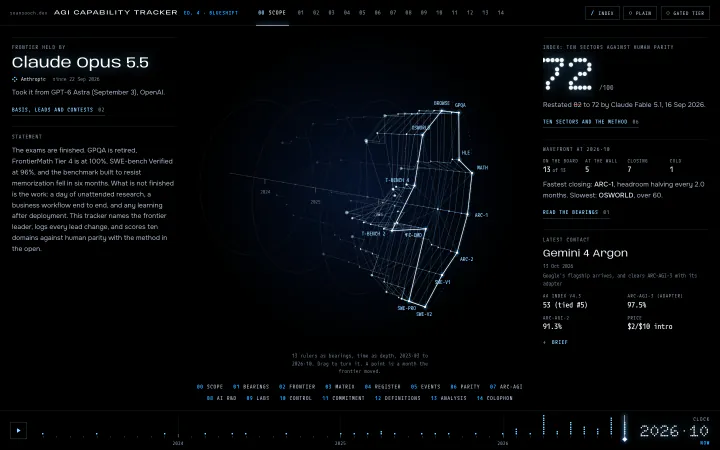
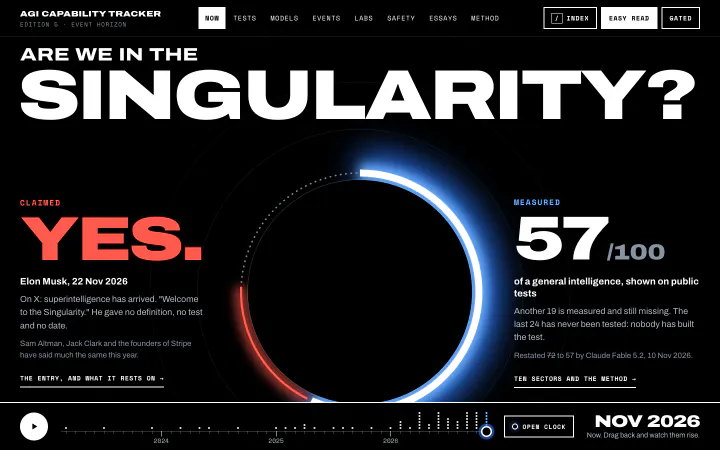
AGI tracker: Edition 5 "Event Horizon" on the record, Edition 4 kept
The tracker's fifth edition is live and its fourth is frozen at
agi-tracker-v4.pages.dev. Record entry, stats and both tellings updated;
plates retaken (agi, agi-e4, vol4, card); counts recounted (179,404 lines
in 504 files).

Two checks that pinned one day's record now state the claim instead: the
sitemap dates the home page no earlier than the newest edition it shows,
and the walk counts the tracker's kept editions off the page.

diff --git a/record/index.html b/record/index.html
@@ -10,7 +10,7 @@
 <meta property="og:description" content="How this site is made and kept, apart from the work: every edition it has had, what is counted from source, what your browser measures as you read, and an index of everything on it.">
 <meta property="og:type" content="website">
 <meta property="og:url" content="https://seansooch.dev/record/">
-<meta property="og:image" content="https://seansooch.dev/plates/card.jpg?v=863c1e0227">
+<meta property="og:image" content="https://seansooch.dev/plates/card.jpg?v=59f5b81c43">
 <meta property="og:image:width" content="1200">
 <meta property="og:image:height" content="630">
 <meta name="twitter:card" content="summary_large_image">
@@ -95,7 +95,7 @@
         <p class="lbl">Retired with honors, November 2026.</p>
         <a class="go" href="https://seansooch-vol3.pages.dev/" target="_blank" rel="noopener">Open the archive<span aria-hidden="true"> ↗</span></a>
       </article><article class="vol" id="vol4">
-        <div class="plate"><img src="/plates/vol4-720.webp?v=dc452cceb1" srcset="/plates/vol4-720.webp?v=dc452cceb1 720w, /plates/vol4.webp?v=5e7e0ce66b 1440w" sizes="(max-width: 860px) 92vw, 23vw" width="1440" height="900" alt="Vol. 04, Side by Side" decoding="async" loading="lazy"></div>
+        <div class="plate"><img src="/plates/vol4-720.webp?v=be61c98005" srcset="/plates/vol4-720.webp?v=be61c98005 720w, /plates/vol4.webp?v=09b8db363f 1440w" sizes="(max-width: 860px) 92vw, 23vw" width="1440" height="900" alt="Vol. 04, Side by Side" decoding="async" loading="lazy"></div>
         <p class="cap-top lbl"><span>Vol. 04</span><span>November 2026</span></p>
         <h3>Side by Side</h3>
         <p class="say-s">A neutral room: each work beside its own earlier edition, no color but the work&#x27;s. Designed by Claude Fable 5.2.</p>
@@ -138,17 +138,17 @@
     <h3 class="sub-h">The apps keep editions too</h3>
     <div class="table-wrap sheet"><table class="eds">
       <thead><tr><th scope="col">App</th><th scope="col">Current edition</th><th scope="col">Designed by</th><th scope="col">Issued</th><th scope="col">Kept</th></tr></thead>
-      <tbody><tr><th scope="row"><a href="/#step2">Step 2 CK Qbank</a></th><td>Edition 2, Workroom</td><td>Claude Opus 5.5</td><td>22 Sep 2026</td><td><a href="https://step2-ck-v1.pages.dev" target="_blank" rel="noopener">Edition 1</a></td></tr><tr><th scope="row"><a href="/#handoff">Patient Handoff Tracker</a></th><td>Edition 2, Chart Tab</td><td>Claude Opus 5.5</td><td>22 Sep 2026</td><td><a href="https://handoff-tracker-v1.pages.dev" target="_blank" rel="noopener">Edition 1</a></td></tr><tr><th scope="row"><a href="/#ekg">Read This</a></th><td>Edition 2, Reading Room</td><td>Claude Opus 5.5</td><td>22 Sep 2026</td><td><a href="https://ekg-v1.pages.dev" target="_blank" rel="noopener">Edition 1</a></td></tr><tr><th scope="row"><a href="/#microtd">MICRO TD</a></th><td>Edition 2, Oil Immersion</td><td>Claude Opus 5.5</td><td>22 Sep 2026</td><td><a href="https://micro-td-v1.pages.dev" target="_blank" rel="noopener">Edition 1</a></td></tr><tr><th scope="row"><a href="/#anatomy">Anatomy Bench</a></th><td>Edition 1, Run 01</td><td>Claude Fable 5.2</td><td>10 Nov 2026</td><td><span class="quiet">none yet</span></td></tr><tr><th scope="row"><a href="/#toolkit">Hospital and Field Toolkit</a></th><td>Edition 2, Pocket Cards</td><td>Claude Opus 5.5</td><td>22 Sep 2026</td><td><a href="https://toolkit-v1.pages.dev/toolkit/" target="_blank" rel="noopener">Edition 1</a></td></tr><tr><th scope="row"><a href="/#warrior">Warrior Ready</a></th><td>Edition 2, Scorecard</td><td>Claude Opus 5.5</td><td>22 Sep 2026</td><td><a href="https://warrior-ready-v1.pages.dev" target="_blank" rel="noopener">Edition 1</a></td></tr><tr><th scope="row"><a href="/#agi">AGI Capability Tracker</a></th><td>Edition 4, Blueshift</td><td>Claude Opus 5.5</td><td>6 Oct 2026</td><td><a href="https://agi-tracker-v3.pages.dev" target="_blank" rel="noopener">Edition 3, The Ledger</a>, <a href="https://agi-tracker-v2.pages.dev" target="_blank" rel="noopener">Edition 2</a></td></tr><tr><th scope="row"><a href="/#sims">Simulators</a></th><td>Edition 2, Drawing Set</td><td>Claude Opus 5.5</td><td>22 Sep 2026</td><td><a href="https://simulators-v1.pages.dev" target="_blank" rel="noopener">Edition 1</a></td></tr><tr><th scope="row"><a href="/#situation">Monitoring the Situation</a></th><td>Edition 3, The Broadsheet</td><td>Claude Opus 5.5</td><td>14 Nov 2026</td><td><span class="quiet">none yet</span></td></tr><tr><th scope="row"><a href="/#forge">Forge</a></th><td>Edition 2, Casting Floor</td><td>Claude Opus 5.5</td><td>22 Sep 2026</td><td><a href="https://forge-v1.pages.dev" target="_blank" rel="noopener">Edition 1</a></td></tr><tr><th scope="row"><a href="/#space">Space Explorer</a></th><td>Edition 2, Flight Plan</td><td>Claude Opus 5.5</td><td>22 Sep 2026</td><td><a href="https://cic-dashboard-v1.pages.dev" target="_blank" rel="noopener">Edition 1</a></td></tr><tr><th scope="row"><a href="/#multipliers">Force Multipliers</a></th><td>Edition 1, Briefing Cards</td><td>Claude Opus 5.5</td><td>10 Oct 2026</td><td><span class="quiet">none yet</span></td></tr><tr><th scope="row"><a href="/#edge">Edge Draft Terminal</a></th><td>Edition 2, Card Back</td><td>Claude Fable 5.2</td><td>22 Nov 2026</td><td><a href="https://edge-v1-a16.pages.dev" target="_blank" rel="noopener">Edition 1</a></td></tr><tr><th scope="row"><a href="/#ncaat">NCAAT Bracket</a></th><td>Edition 2, Studio</td><td>Claude Opus 5.5</td><td>23 Sep 2026</td><td><a href="https://ncaat-bracket-2026-v1.pages.dev" target="_blank" rel="noopener">Edition 1</a></td></tr><tr><th scope="row"><a href="/#masters">Masters 2026 Hub</a></th><td>Edition 2, Big Board</td><td>Claude Opus 5.5</td><td>22 Sep 2026</td><td><a href="https://masters-2026-v1.pages.dev" target="_blank" rel="noopener">Edition 1</a></td></tr><tr><th scope="row"><a href="/#detroit">Detroit Sports Hub</a></th><td>Edition 2, Woodward</td><td>Claude Opus 5.5</td><td>22 Sep 2026</td><td><a href="https://detroit-sports-v1.pages.dev" target="_blank" rel="noopener">Edition 1</a></td></tr><tr><th scope="row"><a href="/#greatbooks">Great Books</a></th><td>Edition 2, Tri-band</td><td>Claude Opus 5.5</td><td>22 Sep 2026</td><td><a href="https://great-books-v1.pages.dev" target="_blank" rel="noopener">Edition 1</a></td></tr><tr><th scope="row"><a href="/#reading">Reading Room</a></th><td>Edition 2, The Stacks</td><td>Claude Opus 5.5</td><td>22 Sep 2026</td><td><a href="https://reading-room-v1.pages.dev" target="_blank" rel="noopener">Edition 1</a></td></tr><tr><th scope="row"><a href="/#philosophy">Philosophy Room</a></th><td>Edition 2, Black-Figure</td><td>Claude Opus 5.5</td><td>22 Sep 2026</td><td><a href="https://philosophy-room-v1.pages.dev" target="_blank" rel="noopener">Edition 1</a></td></tr></tbody>
+      <tbody><tr><th scope="row"><a href="/#step2">Step 2 CK Qbank</a></th><td>Edition 2, Workroom</td><td>Claude Opus 5.5</td><td>22 Sep 2026</td><td><a href="https://step2-ck-v1.pages.dev" target="_blank" rel="noopener">Edition 1</a></td></tr><tr><th scope="row"><a href="/#handoff">Patient Handoff Tracker</a></th><td>Edition 2, Chart Tab</td><td>Claude Opus 5.5</td><td>22 Sep 2026</td><td><a href="https://handoff-tracker-v1.pages.dev" target="_blank" rel="noopener">Edition 1</a></td></tr><tr><th scope="row"><a href="/#ekg">Read This</a></th><td>Edition 2, Reading Room</td><td>Claude Opus 5.5</td><td>22 Sep 2026</td><td><a href="https://ekg-v1.pages.dev" target="_blank" rel="noopener">Edition 1</a></td></tr><tr><th scope="row"><a href="/#microtd">MICRO TD</a></th><td>Edition 2, Oil Immersion</td><td>Claude Opus 5.5</td><td>22 Sep 2026</td><td><a href="https://micro-td-v1.pages.dev" target="_blank" rel="noopener">Edition 1</a></td></tr><tr><th scope="row"><a href="/#anatomy">Anatomy Bench</a></th><td>Edition 1, Run 01</td><td>Claude Fable 5.2</td><td>10 Nov 2026</td><td><span class="quiet">none yet</span></td></tr><tr><th scope="row"><a href="/#toolkit">Hospital and Field Toolkit</a></th><td>Edition 2, Pocket Cards</td><td>Claude Opus 5.5</td><td>22 Sep 2026</td><td><a href="https://toolkit-v1.pages.dev/toolkit/" target="_blank" rel="noopener">Edition 1</a></td></tr><tr><th scope="row"><a href="/#warrior">Warrior Ready</a></th><td>Edition 2, Scorecard</td><td>Claude Opus 5.5</td><td>22 Sep 2026</td><td><a href="https://warrior-ready-v1.pages.dev" target="_blank" rel="noopener">Edition 1</a></td></tr><tr><th scope="row"><a href="/#agi">AGI Capability Tracker</a></th><td>Edition 5, Event Horizon</td><td>Claude Fable 5.2</td><td>23 Nov 2026</td><td><a href="https://agi-tracker-v4.pages.dev" target="_blank" rel="noopener">Edition 4, Blueshift</a>, <a href="https://agi-tracker-v3.pages.dev" target="_blank" rel="noopener">Edition 3, The Ledger</a>, <a href="https://agi-tracker-v2.pages.dev" target="_blank" rel="noopener">Edition 2</a></td></tr><tr><th scope="row"><a href="/#sims">Simulators</a></th><td>Edition 2, Drawing Set</td><td>Claude Opus 5.5</td><td>22 Sep 2026</td><td><a href="https://simulators-v1.pages.dev" target="_blank" rel="noopener">Edition 1</a></td></tr><tr><th scope="row"><a href="/#situation">Monitoring the Situation</a></th><td>Edition 3, The Broadsheet</td><td>Claude Opus 5.5</td><td>14 Nov 2026</td><td><span class="quiet">none yet</span></td></tr><tr><th scope="row"><a href="/#forge">Forge</a></th><td>Edition 2, Casting Floor</td><td>Claude Opus 5.5</td><td>22 Sep 2026</td><td><a href="https://forge-v1.pages.dev" target="_blank" rel="noopener">Edition 1</a></td></tr><tr><th scope="row"><a href="/#space">Space Explorer</a></th><td>Edition 2, Flight Plan</td><td>Claude Opus 5.5</td><td>22 Sep 2026</td><td><a href="https://cic-dashboard-v1.pages.dev" target="_blank" rel="noopener">Edition 1</a></td></tr><tr><th scope="row"><a href="/#multipliers">Force Multipliers</a></th><td>Edition 1, Briefing Cards</td><td>Claude Opus 5.5</td><td>10 Oct 2026</td><td><span class="quiet">none yet</span></td></tr><tr><th scope="row"><a href="/#edge">Edge Draft Terminal</a></th><td>Edition 2, Card Back</td><td>Claude Fable 5.2</td><td>22 Nov 2026</td><td><a href="https://edge-v1-a16.pages.dev" target="_blank" rel="noopener">Edition 1</a></td></tr><tr><th scope="row"><a href="/#ncaat">NCAAT Bracket</a></th><td>Edition 2, Studio</td><td>Claude Opus 5.5</td><td>23 Sep 2026</td><td><a href="https://ncaat-bracket-2026-v1.pages.dev" target="_blank" rel="noopener">Edition 1</a></td></tr><tr><th scope="row"><a href="/#masters">Masters 2026 Hub</a></th><td>Edition 2, Big Board</td><td>Claude Opus 5.5</td><td>22 Sep 2026</td><td><a href="https://masters-2026-v1.pages.dev" target="_blank" rel="noopener">Edition 1</a></td></tr><tr><th scope="row"><a href="/#detroit">Detroit Sports Hub</a></th><td>Edition 2, Woodward</td><td>Claude Opus 5.5</td><td>22 Sep 2026</td><td><a href="https://detroit-sports-v1.pages.dev" target="_blank" rel="noopener">Edition 1</a></td></tr><tr><th scope="row"><a href="/#greatbooks">Great Books</a></th><td>Edition 2, Tri-band</td><td>Claude Opus 5.5</td><td>22 Sep 2026</td><td><a href="https://great-books-v1.pages.dev" target="_blank" rel="noopener">Edition 1</a></td></tr><tr><th scope="row"><a href="/#reading">Reading Room</a></th><td>Edition 2, The Stacks</td><td>Claude Opus 5.5</td><td>22 Sep 2026</td><td><a href="https://reading-room-v1.pages.dev" target="_blank" rel="noopener">Edition 1</a></td></tr><tr><th scope="row"><a href="/#philosophy">Philosophy Room</a></th><td>Edition 2, Black-Figure</td><td>Claude Opus 5.5</td><td>22 Sep 2026</td><td><a href="https://philosophy-room-v1.pages.dev" target="_blank" rel="noopener">Edition 1</a></td></tr></tbody>
     </table></div>
-    <p class="say-s wide"><span class="t">What changed since Vol. 03 was issued in September, beyond the design. The five views are retired together and the site is one edition again, built from one record, so a count can no longer disagree with itself between pages. Great Books, AdmissionsAcademy, the music, Monitoring the Situation and Force Multipliers joined the work, and the Lab opened in October. Seventeen apps now have an earlier edition kept at its own address, most of them redesigned from a blank page by Claude Opus 5.5 in September. Every description was checked again on 9 November 2026 against the source and the live app, and corrected where the app had moved on or the claim was more than the record supports. The lines were recounted from source: 176,913 in 487 files, up from 150,906 in 247. Two things this edition adds that no earlier volume had: the work itself, shown as it looks today, and each earlier edition set beside it.</span><span class="p">Since the last edition: the five switchable designs were retired and the site is one design again. A medicine course was added, along with a tracker of what the internet is talking about, a set of how-to cards and a music page. Most of the apps were redesigned, and their old versions are still online. Every description was checked again against the real app. This edition also shows you a picture of every app, and can put the old version next to the new one.</span></p>
+    <p class="say-s wide"><span class="t">What changed since Vol. 03 was issued in September, beyond the design. The five views are retired together and the site is one edition again, built from one record, so a count can no longer disagree with itself between pages. Great Books, AdmissionsAcademy, the music, Monitoring the Situation and Force Multipliers joined the work, and the Lab opened in October. Seventeen apps now have an earlier edition kept at its own address, most of them redesigned from a blank page by Claude Opus 5.5 in September. Every description was checked again on 9 November 2026 against the source and the live app, and corrected where the app had moved on or the claim was more than the record supports. The lines were recounted from source: 179,404 in 504 files, up from 150,906 in 247. Two things this edition adds that no earlier volume had: the work itself, shown as it looks today, and each earlier edition set beside it.</span><span class="p">Since the last edition: the five switchable designs were retired and the site is one design again. A medicine course was added, along with a tracker of what the internet is talking about, a set of how-to cards and a music page. Most of the apps were redesigned, and their old versions are still online. Every description was checked again against the real app. This edition also shows you a picture of every app, and can put the old version next to the new one.</span></p>
   </section>
   <section class="sec" id="record" aria-labelledby="record-h">
     <span class="alias" id="ch1"></span><span class="alias" id="ch2"></span>
     <header class="sec-h"><h2 id="record-h">Counted and measured</h2><p class="lbl">What is counted, beside what your browser just measured.</p></header>
     <div class="pair">
       <div>
-        <h3 class="sub-h first">Counted <span class="lbl">from source, 10 Nov 2026</span></h3>
-        <dl class="ledger"><div><dt>Lines of source</dt><dd>176,913</dd><dd class="std lbl">unique source files, generated pages and data left out; 33,333 of these are tests</dd></div><div><dt>Source files</dt><dd>487</dd><dd class="std lbl">html, css, javascript, typescript, python, shell and sql</dd></div><div><dt>Board-style questions</dt><dd>12,972</dd><dd class="std lbl">seven question banks, eight subjects; every item checked against its source card, most read again by an independent reviewer</dd></div><div><dt>Months since first deploy</dt><dd>7</dd><dd class="std lbl">April 2026 to November 2026, evenings and weekends</dd></div></dl>
+        <h3 class="sub-h first">Counted <span class="lbl">from source, 23 Nov 2026</span></h3>
+        <dl class="ledger"><div><dt>Lines of source</dt><dd>179,404</dd><dd class="std lbl">unique source files, generated pages and data left out; 34,459 of these are tests</dd></div><div><dt>Source files</dt><dd>504</dd><dd class="std lbl">html, css, javascript, typescript, python, shell and sql</dd></div><div><dt>Board-style questions</dt><dd>12,972</dd><dd class="std lbl">seven question banks, eight subjects; every item checked against its source card, most read again by an independent reviewer</dd></div><div><dt>Months since first deploy</dt><dd>7</dd><dd class="std lbl">April 2026 to November 2026, evenings and weekends</dd></div></dl>
       </div>
       <div>
         <h3 class="sub-h first">Measured <span class="lbl" data-asked>in your browser, when this page loaded</span></h3>
@@ -188,7 +188,7 @@
     </div>
     <div class="colophon-facts">
       <p class="lbl">Set in Roboto Serif, by Greg Gazdowicz of Commercial Type, and Mona Sans, by GitHub.</p>
-      <p class="lbl">Counts recounted 10 Nov 2026. Plates captured 9 Nov 2026 to 22 Nov 2026. Round trips measured in your browser, now.</p>
+      <p class="lbl">Counts recounted 23 Nov 2026. Plates captured 9 Nov 2026 to 23 Nov 2026. Round trips measured in your browser, now.</p>
       <p class="lbl js-only" role="group" aria-label="Appearance">Appearance: <button class="link" type="button" data-theme-set="auto" aria-pressed="true">as your device</button> <button class="link" type="button" data-theme-set="light" aria-pressed="false">light</button> <button class="link" type="button" data-theme-set="dark" aria-pressed="false">dark</button> <button class="link" type="button" data-theme-set="usa" aria-pressed="false">USA</button></p>
       <p class="lbl">© 2026 Sean Sooch · <a href="/record/#editions">Earlier volumes are kept</a> · <a href="#top">Top</a></p>
     </div>

diff --git a/index.html b/index.html
@@ -4,13 +4,13 @@
 <meta charset="utf-8">
 <meta name="viewport" content="width=device-width, initial-scale=1">
 <title>Sean Sooch: Medicine, Military, Machines</title>
-<meta name="description" content="Twenty-four live works where medicine, the military and frontier AI meet, built by a medical student and military officer with AI as the engineering tool. 176,913 lines across 487 files in fifteen of them. Every one is live, and this page asks each address to answer while you read.">
+<meta name="description" content="Twenty-four live works where medicine, the military and frontier AI meet, built by a medical student and military officer with AI as the engineering tool. 179,404 lines across 504 files in fifteen of them. Every one is live, and this page asks each address to answer while you read.">
 <link rel="canonical" href="https://seansooch.dev/">
 <meta property="og:title" content="Sean Sooch: Medicine, Military, Machines">
-<meta property="og:description" content="Twenty-four live works where medicine, the military and frontier AI meet, built by a medical student and military officer with AI as the engineering tool. 176,913 lines across 487 files in fifteen of them. Every one is live, and this page asks each address to answer while you read.">
+<meta property="og:description" content="Twenty-four live works where medicine, the military and frontier AI meet, built by a medical student and military officer with AI as the engineering tool. 179,404 lines across 504 files in fifteen of them. Every one is live, and this page asks each address to answer while you read.">
 <meta property="og:type" content="website">
 <meta property="og:url" content="https://seansooch.dev/">
-<meta property="og:image" content="https://seansooch.dev/plates/card.jpg?v=863c1e0227">
+<meta property="og:image" content="https://seansooch.dev/plates/card.jpg?v=59f5b81c43">
 <meta property="og:image:width" content="1200">
 <meta property="og:image:height" content="630">
 <meta name="twitter:card" content="summary_large_image">
@@ -54,7 +54,7 @@
       <p class="lbl">Medicine · Military · Machines</p>
       <h1 id="name">Sean<br>Sooch</h1>
       <p class="roles">Medical student. Military officer. Builder.</p>
-      <p class="lede"><span class="t"><b>Twenty-four live works</b> where medicine, the military and frontier AI meet, built by a <b>medical student</b> and <b>military officer</b> with AI as the engineering tool. <b>176,913 lines</b> across 487 files in fifteen of them. Every one is live, and this page asks each address to answer while you read.</span><span class="p">Twenty-four working projects, built by one person in spare time. I&#x27;m a <b>medical student</b> and <b>military officer</b>, and AI wrote most of the code with me. <b>Everything here is live</b>, and this page checks that for you the moment it loads.</span></p>
+      <p class="lede"><span class="t"><b>Twenty-four live works</b> where medicine, the military and frontier AI meet, built by a <b>medical student</b> and <b>military officer</b> with AI as the engineering tool. <b>179,404 lines</b> across 504 files in fifteen of them. Every one is live, and this page asks each address to answer while you read.</span><span class="p">Twenty-four working projects, built by one person in spare time. I&#x27;m a <b>medical student</b> and <b>military officer</b>, and AI wrote most of the code with me. <b>Everything here is live</b>, and this page checks that for you the moment it loads.</span></p>
       <nav class="lbl mast-nav" aria-label="Sections"><a href="#work">Work</a><a href="/lab/">The Lab</a><a href="#writing">Writing</a><a href="#films">Films</a><a href="/record/">Record</a></nav>
       <p class="lbl mast-ed"><span>Vol. 04, Side by Side · November 2026</span><span>Designed by Claude Fable 5.2</span><a href="/record/#editions">Three earlier volumes are kept</a></p>
     </div>
@@ -216,19 +216,19 @@
     </section><section class="world" id="world-machines" data-has="hum mac med" aria-labelledby="world-mac">
       <header class="world-h"><h3 id="world-mac">Machines</h3><p class="lbl">Seven works, four with an earlier edition kept</p></header>
       <article class="work pair" id="agi" data-worlds="mac">
-      <figure class="plate-fig"><a class="plate" href="https://differential-c57.pages.dev/" target="_blank" rel="noopener" tabindex="-1" aria-hidden="true"><img src="/plates/agi-720.webp?v=d7201717d3" srcset="/plates/agi-720.webp?v=d7201717d3 720w, /plates/agi.webp?v=6e4aad2b22 1440w" sizes="(max-width: 860px) 92vw, 46vw" width="1440" height="900" alt="AGI Capability Tracker, as it looked on 9 Nov 2026" decoding="async" loading="lazy"></a><figcaption class="lbl now"><b>Now.</b> Edition 4, Blueshift</figcaption></figure>
+      <figure class="plate-fig"><a class="plate" href="https://differential-c57.pages.dev/" target="_blank" rel="noopener" tabindex="-1" aria-hidden="true"><img src="/plates/agi-720.webp?v=e686269fe9" srcset="/plates/agi-720.webp?v=e686269fe9 720w, /plates/agi.webp?v=30dcc13194 1440w" sizes="(max-width: 860px) 92vw, 46vw" width="1440" height="900" alt="AGI Capability Tracker, as it looked on 23 Nov 2026" decoding="async" loading="lazy"></a><figcaption class="lbl now"><b>Now.</b> Edition 5, Event Horizon</figcaption></figure>
       <header class="work-h">
         <p class="cap-top lbl"><span>Machines · AI safety</span><span class="live"><i class="dot" data-dot="agi"></i><span data-ms="agi">not asked yet</span></span></p>
         <h4>AGI Capability Tracker</h4>
         <button class="link beside-back lbl" type="button" data-beside-back="agi" hidden>Back to the description</button>
       </header>
       <div class="cap">
-        <p class="say"><span class="t">The AI frontier as a 3D wavefront over 13 benchmarks, on one clock you can run back to March 2023: 65 models, 10 sectors in a weighted index with its method published, verified ARC-AGI cells, 10 capability events, a capability-against-control ledger, and a gated-tier toggle for what the labs hold back. Updated October 2026.</span><span class="p">A dashboard tracking how close AI is to human-level ability across 10 skill areas, following 65 models, with a record of the moments that actually moved the frontier. A toggle shows what the labs keep back from public release.</span></p>
-        <dl class="stats"><div><dt>models</dt><dd>65</dd></div><div><dt>sectors</dt><dd>10</dd></div><div><dt>events</dt><dd>10</dd></div></dl>
-        <p class="lin lbl"><span>Edition 4, Blueshift · Claude Opus 5.5 · 6 Oct 2026</span><span>Kept: <a href="https://agi-tracker-v3.pages.dev" target="_blank" rel="noopener">Edition 3, The Ledger</a>, <a href="https://agi-tracker-v2.pages.dev" target="_blank" rel="noopener">Edition 2</a></span><span>Edition 1 was not kept.</span><button class="link js-only" type="button" data-beside="agi" aria-expanded="false" aria-controls="agi-prior">Set beside Edition 3, The Ledger</button></p>
+        <p class="say"><span class="t">What is claimed about AI set against what is measured. An index of general intelligence drawn as the ring of a black hole, and 15 benchmarks as streaks of light falling toward a perfect score, on one clock you can run back to March 2023: 75 models, 10 sectors in a computed index with its method published, 17 events each with how far it has been checked, a capability-against-control ledger, a gated-tier toggle for what the labs hold back, and a full-screen Frontier Clock built by GPT-6.2 Sol. Updated November 2026.</span><span class="p">A tracker of how close AI is to human-level ability. It sets what people claim against what public tests actually show, follows 75 models across 15 tests, leaves three lanes dark for abilities nobody tests, and keeps a record of the moments that moved the frontier, each marked with how far it has been checked.</span></p>
+        <dl class="stats"><div><dt>models</dt><dd>75</dd></div><div><dt>sectors</dt><dd>10</dd></div><div><dt>events</dt><dd>17</dd></div></dl>
+        <p class="lin lbl"><span>Edition 5, Event Horizon · Claude Fable 5.2 · 23 Nov 2026</span><span>Kept: <a href="https://agi-tracker-v4.pages.dev" target="_blank" rel="noopener">Edition 4, Blueshift</a>, <a href="https://agi-tracker-v3.pages.dev" target="_blank" rel="noopener">Edition 3, The Ledger</a>, <a href="https://agi-tracker-v2.pages.dev" target="_blank" rel="noopener">Edition 2</a></span><span>Edition 1 was not kept.</span><button class="link js-only" type="button" data-beside="agi" aria-expanded="false" aria-controls="agi-prior">Set beside Edition 4, Blueshift</button></p>
         <p class="cap-foot"><a class="go" href="https://differential-c57.pages.dev/" target="_blank" rel="noopener">Open the tracker<span aria-hidden="true"> ↗</span></a><span class="lbl host">differential-c57.pages.dev</span></p>
       </div>
-      <div class="prior" id="agi-prior" hidden><p class="lbl prior-pick"><button class="link" type="button" data-prior-ed="3" aria-pressed="true">Edition 3, The Ledger</button><button class="link" type="button" data-prior-ed="2" aria-pressed="false">Edition 2</button></p><figure class="prior-ed" data-ed="3"><div class="plate"><img src="/plates/agi-e3-720.webp?v=a0242bbed9" srcset="/plates/agi-e3-720.webp?v=a0242bbed9 720w, /plates/agi-e3.webp?v=78c3c6e5b4 1440w" sizes="(max-width: 860px) 92vw, 46vw" width="1440" height="900" alt="AGI Capability Tracker, Edition 3, The Ledger, as it is kept" decoding="async" loading="lazy"></div><figcaption class="lbl"><span><b>Before.</b> Edition 3, The Ledger · Claude Fable 5.1 · 16 Sep 2026</span><a href="https://agi-tracker-v3.pages.dev" target="_blank" rel="noopener">Open it<span aria-hidden="true"> ↗</span></a></figcaption></figure><figure class="prior-ed" data-ed="2" hidden><div class="plate"><img src="/plates/agi-e2-720.webp?v=769b56c9c6" srcset="/plates/agi-e2-720.webp?v=769b56c9c6 720w, /plates/agi-e2.webp?v=b13b78c16b 1440w" sizes="(max-width: 860px) 92vw, 46vw" width="1440" height="900" alt="AGI Capability Tracker, Edition 2, as it is kept" decoding="async" loading="lazy"></div><figcaption class="lbl"><span><b>Before.</b> Edition 2 · Claude Opus 4.6 to Opus 4.8 · April 2026</span><a href="https://agi-tracker-v2.pages.dev" target="_blank" rel="noopener">Open it<span aria-hidden="true"> ↗</span></a></figcaption></figure></div>
+      <div class="prior" id="agi-prior" hidden><p class="lbl prior-pick"><button class="link" type="button" data-prior-ed="4" aria-pressed="true">Edition 4, Blueshift</button><button class="link" type="button" data-prior-ed="3" aria-pressed="false">Edition 3, The Ledger</button><button class="link" type="button" data-prior-ed="2" aria-pressed="false">Edition 2</button></p><figure class="prior-ed" data-ed="4"><div class="plate"><img src="/plates/agi-e4-720.webp?v=6d2736464a" srcset="/plates/agi-e4-720.webp?v=6d2736464a 720w, /plates/agi-e4.webp?v=5b050115ca 1440w" sizes="(max-width: 860px) 92vw, 46vw" width="1440" height="900" alt="AGI Capability Tracker, Edition 4, Blueshift, as it is kept" decoding="async" loading="lazy"></div><figcaption class="lbl"><span><b>Before.</b> Edition 4, Blueshift · Claude Opus 5.5 · 6 Oct 2026</span><a href="https://agi-tracker-v4.pages.dev" target="_blank" rel="noopener">Open it<span aria-hidden="true"> ↗</span></a></figcaption></figure><figure class="prior-ed" data-ed="3" hidden><div class="plate"><img src="/plates/agi-e3-720.webp?v=a0242bbed9" srcset="/plates/agi-e3-720.webp?v=a0242bbed9 720w, /plates/agi-e3.webp?v=78c3c6e5b4 1440w" sizes="(max-width: 860px) 92vw, 46vw" width="1440" height="900" alt="AGI Capability Tracker, Edition 3, The Ledger, as it is kept" decoding="async" loading="lazy"></div><figcaption class="lbl"><span><b>Before.</b> Edition 3, The Ledger · Claude Fable 5.1 · 16 Sep 2026</span><a href="https://agi-tracker-v3.pages.dev" target="_blank" rel="noopener">Open it<span aria-hidden="true"> ↗</span></a></figcaption></figure><figure class="prior-ed" data-ed="2" hidden><div class="plate"><img src="/plates/agi-e2-720.webp?v=769b56c9c6" srcset="/plates/agi-e2-720.webp?v=769b56c9c6 720w, /plates/agi-e2.webp?v=b13b78c16b 1440w" sizes="(max-width: 860px) 92vw, 46vw" width="1440" height="900" alt="AGI Capability Tracker, Edition 2, as it is kept" decoding="async" loading="lazy"></div><figcaption class="lbl"><span><b>Before.</b> Edition 2 · Claude Opus 4.6 to Opus 4.8 · April 2026</span><a href="https://agi-tracker-v2.pages.dev" target="_blank" rel="noopener">Open it<span aria-hidden="true"> ↗</span></a></figcaption></figure></div>
     </article><article class="work pair" id="sims" data-worlds="mac med">
       <figure class="plate-fig"><a class="plate" href="https://simulators-4lb.pages.dev/" target="_blank" rel="noopener" tabindex="-1" aria-hidden="true"><img src="/plates/sims-720.webp?v=767df5bba8" srcset="/plates/sims-720.webp?v=767df5bba8 720w, /plates/sims.webp?v=a8d78f760f 1440w" sizes="(max-width: 860px) 92vw, 46vw" width="1440" height="900" alt="Simulators, as it looked on 9 Nov 2026" decoding="async" loading="lazy"></a><figcaption class="lbl now"><b>Now.</b> Edition 2, Drawing Set</figcaption></figure>
       <header class="work-h">
@@ -560,7 +560,7 @@
     </div>
     <div class="colophon-facts">
       <p class="lbl">Set in Roboto Serif, by Greg Gazdowicz of Commercial Type, and Mona Sans, by GitHub.</p>
-      <p class="lbl">Counts recounted 10 Nov 2026. Plates captured 9 Nov 2026 to 22 Nov 2026. Round trips measured in your browser, now.</p>
+      <p class="lbl">Counts recounted 23 Nov 2026. Plates captured 9 Nov 2026 to 23 Nov 2026. Round trips measured in your browser, now.</p>
       <p class="lbl js-only" role="group" aria-label="Appearance">Appearance: <button class="link" type="button" data-theme-set="auto" aria-pressed="true">as your device</button> <button class="link" type="button" data-theme-set="light" aria-pressed="false">light</button> <button class="link" type="button" data-theme-set="dark" aria-pressed="false">dark</button> <button class="link" type="button" data-theme-set="usa" aria-pressed="false">USA</button></p>
       <p class="lbl">© 2026 Sean Sooch · <a href="/record/#editions">Earlier volumes are kept</a> · <a href="#top">Top</a></p>
     </div>

diff --git a/astra/index.html b/astra/index.html
@@ -10,7 +10,7 @@
 <meta property="og:description" content="An illustrated field notebook of medicine, military service and software by Sean Sooch.">
 <meta property="og:type" content="website">
 <meta property="og:url" content="https://seansooch.dev/astra/">
-<meta property="og:image" content="https://seansooch.dev/plates/card.jpg?v=863c1e0227">
+<meta property="og:image" content="https://seansooch.dev/plates/card.jpg?v=59f5b81c43">
 <meta property="og:image:width" content="1200">
 <meta property="og:image:height" content="630">
 <meta name="twitter:card" content="summary_large_image">
@@ -83,9 +83,9 @@
               <p><a class="ink-link" href="https://warrior-ready.pages.dev/">Open the scorecard ↗</a></p>
               <p>Archive · <a href="https://warrior-ready-v1.pages.dev">Edition 1</a> </p></div></div></details></div></section><section class="shelf" id="world-machines"><h3>Machines <small>(7)</small></h3><div><details class="entry" id="agi" data-entry="agi">
               <summary><span>AGI Capability Tracker</span><small>AI safety</small></summary>
-              <div class="entry-body"><div><img src="/plates/agi-720.webp?v=d7201717d3" srcset="/plates/agi-720.webp?v=d7201717d3 720w, /plates/agi.webp?v=6e4aad2b22 1440w" sizes="(max-width:700px) 85vw, 30vw" width="1440" height="900" alt="AGI Capability Tracker" decoding="async" loading="lazy"></div><div><p class="say"><span class="t">The AI frontier as a 3D wavefront over 13 benchmarks, on one clock you can run back to March 2023: 65 models, 10 sectors in a weighted index with its method published, verified ARC-AGI cells, 10 capability events, a capability-against-control ledger, and a gated-tier toggle for what the labs hold back. Updated October 2026.</span><span class="p">A dashboard tracking how close AI is to human-level ability across 10 skill areas, following 65 models, with a record of the moments that actually moved the frontier. A toggle shows what the labs keep back from public release.</span></p>
+              <div class="entry-body"><div><img src="/plates/agi-720.webp?v=e686269fe9" srcset="/plates/agi-720.webp?v=e686269fe9 720w, /plates/agi.webp?v=30dcc13194 1440w" sizes="(max-width:700px) 85vw, 30vw" width="1440" height="900" alt="AGI Capability Tracker" decoding="async" loading="lazy"></div><div><p class="say"><span class="t">What is claimed about AI set against what is measured. An index of general intelligence drawn as the ring of a black hole, and 15 benchmarks as streaks of light falling toward a perfect score, on one clock you can run back to March 2023: 75 models, 10 sectors in a computed index with its method published, 17 events each with how far it has been checked, a capability-against-control ledger, a gated-tier toggle for what the labs hold back, and a full-screen Frontier Clock built by GPT-6.2 Sol. Updated November 2026.</span><span class="p">A tracker of how close AI is to human-level ability. It sets what people claim against what public tests actually show, follows 75 models across 15 tests, leaves three lanes dark for abilities nobody tests, and keeps a record of the moments that moved the frontier, each marked with how far it has been checked.</span></p>
               <p><a class="ink-link" href="https://differential-c57.pages.dev/">Open the tracker ↗</a></p>
-              <p>Archive · <a href="https://agi-tracker-v2.pages.dev">Edition 2</a> <a href="https://agi-tracker-v3.pages.dev">Edition 3, The Ledger</a> </p></div></div></details><details class="entry" id="sims" data-entry="sims">
+              <p>Archive · <a href="https://agi-tracker-v2.pages.dev">Edition 2</a> <a href="https://agi-tracker-v3.pages.dev">Edition 3, The Ledger</a> <a href="https://agi-tracker-v4.pages.dev">Edition 4, Blueshift</a> </p></div></div></details><details class="entry" id="sims" data-entry="sims">
               <summary><span>Simulators</span><small>Simulation</small></summary>
               <div class="entry-body"><div><img src="/plates/sims-720.webp?v=767df5bba8" srcset="/plates/sims-720.webp?v=767df5bba8 720w, /plates/sims.webp?v=a8d78f760f 1440w" sizes="(max-width:700px) 85vw, 30vw" width="1440" height="900" alt="Simulators" decoding="async" loading="lazy"></div><div><p class="say"><span class="t">Four sims, one umbrella: the Alignment Simulator (run a frontier lab, 12 decisions, 6 endings, built from the Risk Stack paper), Code Blue (spacebar CPR with live rate and depth feedback, AHA 2020), Half-Life Tracker (caffeine, hydration, and BAC pharmacokinetics), and Pocket Telescope (live night-sky ID and star quizzes).</span><span class="p">Four browser tools: run an AI lab and live with your choices, perform CPR with real-time coaching, watch caffeine or alcohol clear your system over time, and learn tonight&#x27;s sky from your location.</span></p>
               <p><a class="ink-link" href="https://simulators-4lb.pages.dev/">Run a simulator ↗</a></p>

diff --git a/two-stories/index.html b/two-stories/index.html
@@ -10,7 +10,7 @@
 <meta property="og:description" content="An origin story is a starting condition plus a rule, and the evidence only ever reaches the rule. Part I sets the Big Bang beside a generated origin, takes four objections seriously (tidiness, cheating, motive, and proving too much), and shows that two of them force the second story to change.">
 <meta property="og:type" content="article">
 <meta property="og:url" content="https://seansooch.dev/two-stories/">
-<meta property="og:image" content="https://seansooch.dev/plates/card.jpg?v=863c1e0227">
+<meta property="og:image" content="https://seansooch.dev/plates/card.jpg?v=59f5b81c43">
 <meta property="og:image:width" content="1200">
 <meta property="og:image:height" content="630">
 <meta name="twitter:card" content="summary_large_image">

diff --git a/lab/index.html b/lab/index.html
@@ -10,7 +10,7 @@
 <meta property="og:description" content="The Lab: a course in core medicine in eleven units, taught one picture at a time. Step-by-step visual lessons in plain language, each with goals, predictions, a quiz and a summary. Educational only, not for clinical use.">
 <meta property="og:type" content="website">
 <meta property="og:url" content="https://seansooch.dev/lab/">
-<meta property="og:image" content="https://seansooch.dev/plates/card.jpg?v=863c1e0227">
+<meta property="og:image" content="https://seansooch.dev/plates/card.jpg?v=59f5b81c43">
 <meta property="og:image:width" content="1200">
 <meta property="og:image:height" content="630">
 <meta name="twitter:card" content="summary_large_image">

diff --git a/404.html b/404.html
@@ -8,7 +8,7 @@
 <meta property="og:title" content="Nothing at this address · Sean Sooch">
 <meta property="og:description" content="There is no page at this address on seansooch.dev.">
 <meta property="og:type" content="website">
-<meta property="og:image" content="https://seansooch.dev/plates/card.jpg?v=863c1e0227">
+<meta property="og:image" content="https://seansooch.dev/plates/card.jpg?v=59f5b81c43">
 <meta property="og:image:width" content="1200">
 <meta property="og:image:height" content="630">
 <meta name="twitter:card" content="summary_large_image">

diff --git a/tools/edition_test.py b/tools/edition_test.py
@@ -941,7 +941,12 @@ class Tree(Base):
         want = {'/': home, '/record/': max(ed['issued'], ed['counted']), '/two-stories/': ed['issued'], '/lab/': max(lessons.values())}
         want |= {f'/lab/{s}/': d for s, d in lessons.items()}
         self.assertEqual({p: d for p, d in got.items() if d}, want)
-        self.assertEqual(home, '2026-11-22', 'the home page is dated by the newest edition of a work it shows')
+        # The claim is that a work's new edition moves the home page's date. It used to be pinned to one day's
+        # record ('2026-11-22'), which failed the next time any work shipped an edition. Checked against what the
+        # builder wrote instead (not against `home`, which this test worked out itself): the page is never dated
+        # before the newest edition of a work it shows. It holds on a day the volume's own dates are newer too.
+        newest = max(e['date'] for w in r['works'] for e in w.get('editions', []))
+        self.assertGreaterEqual(got['/'], newest, 'the home page is dated before the newest edition of a work it shows')
         self.assertEqual(sm.count('<changefreq>'), 0, 'Google ignores changefreq and priority; lastmod is the signal')
         self.assertEqual(sm.count('<priority>'), 0)
 
